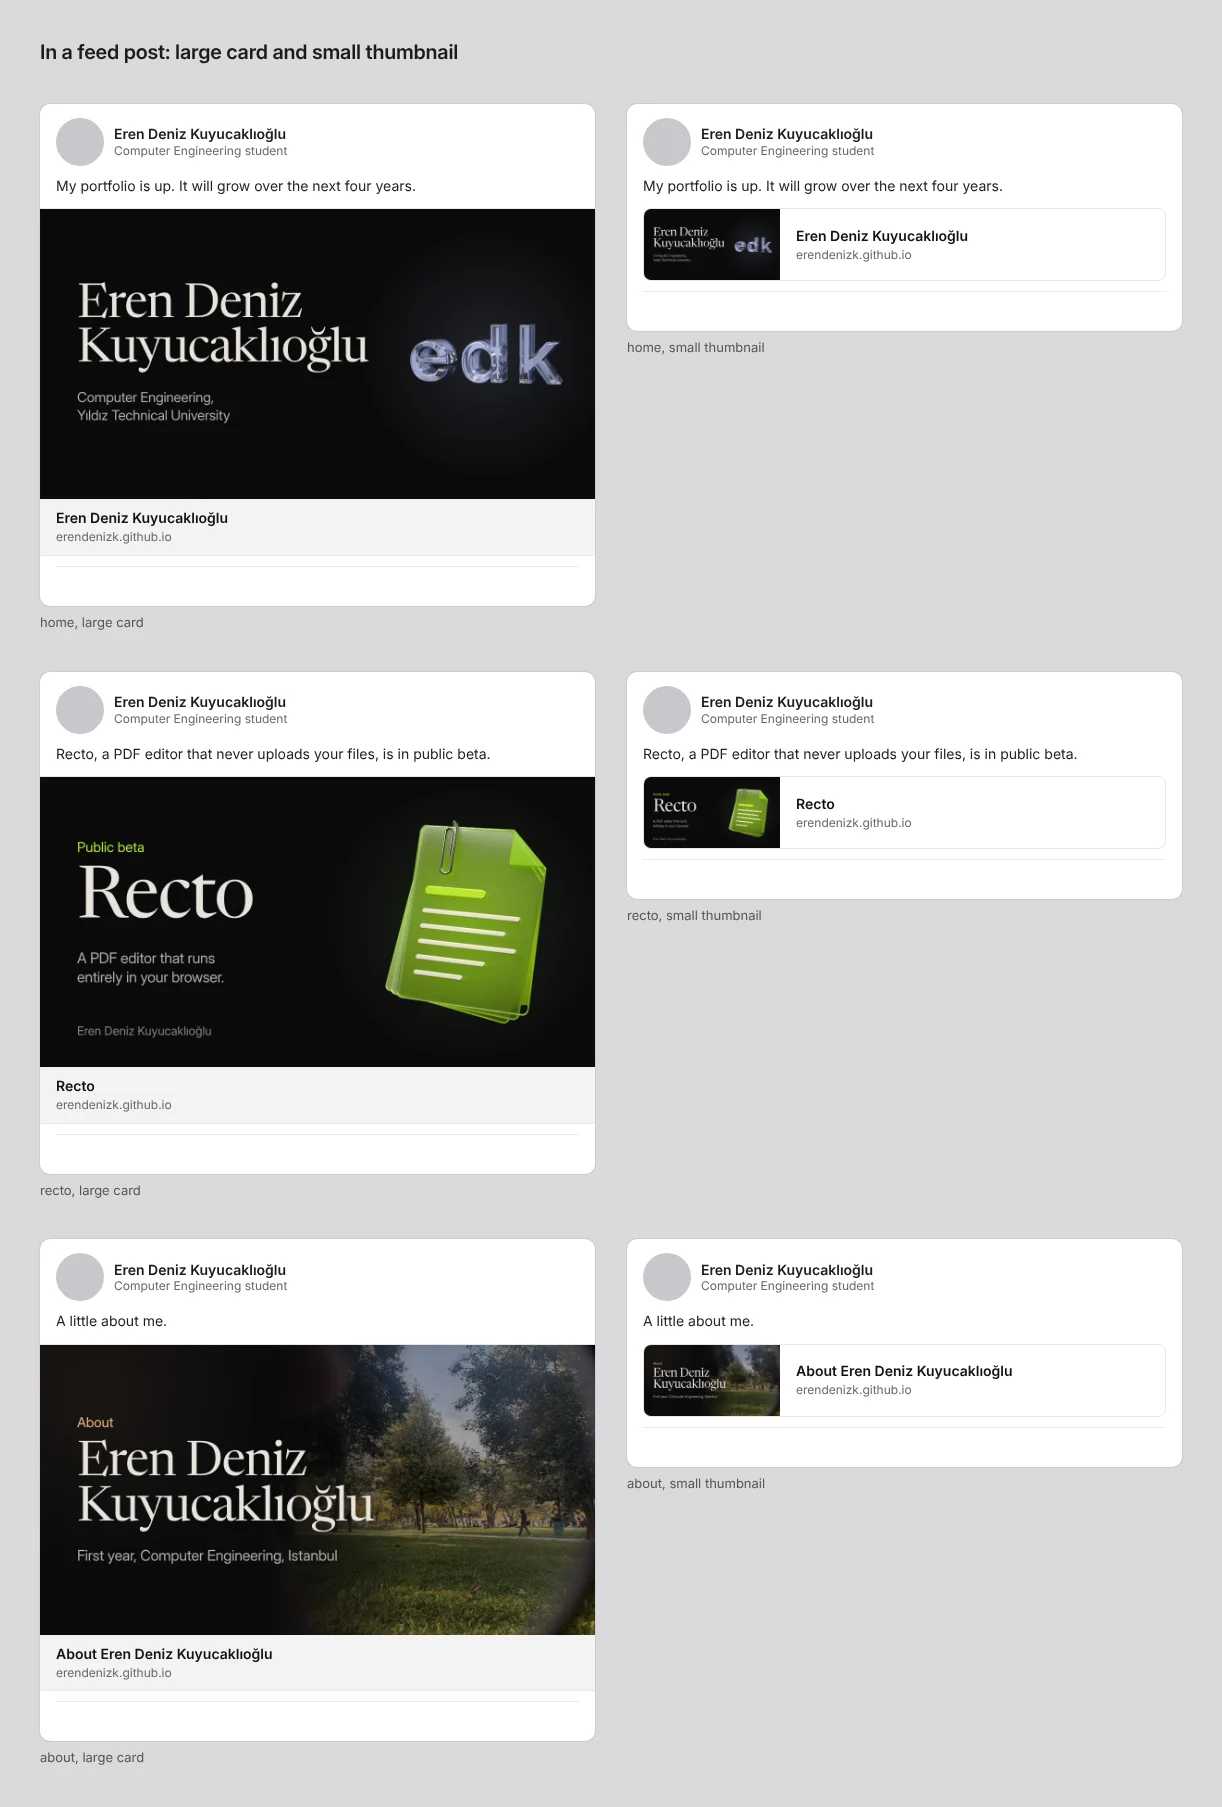
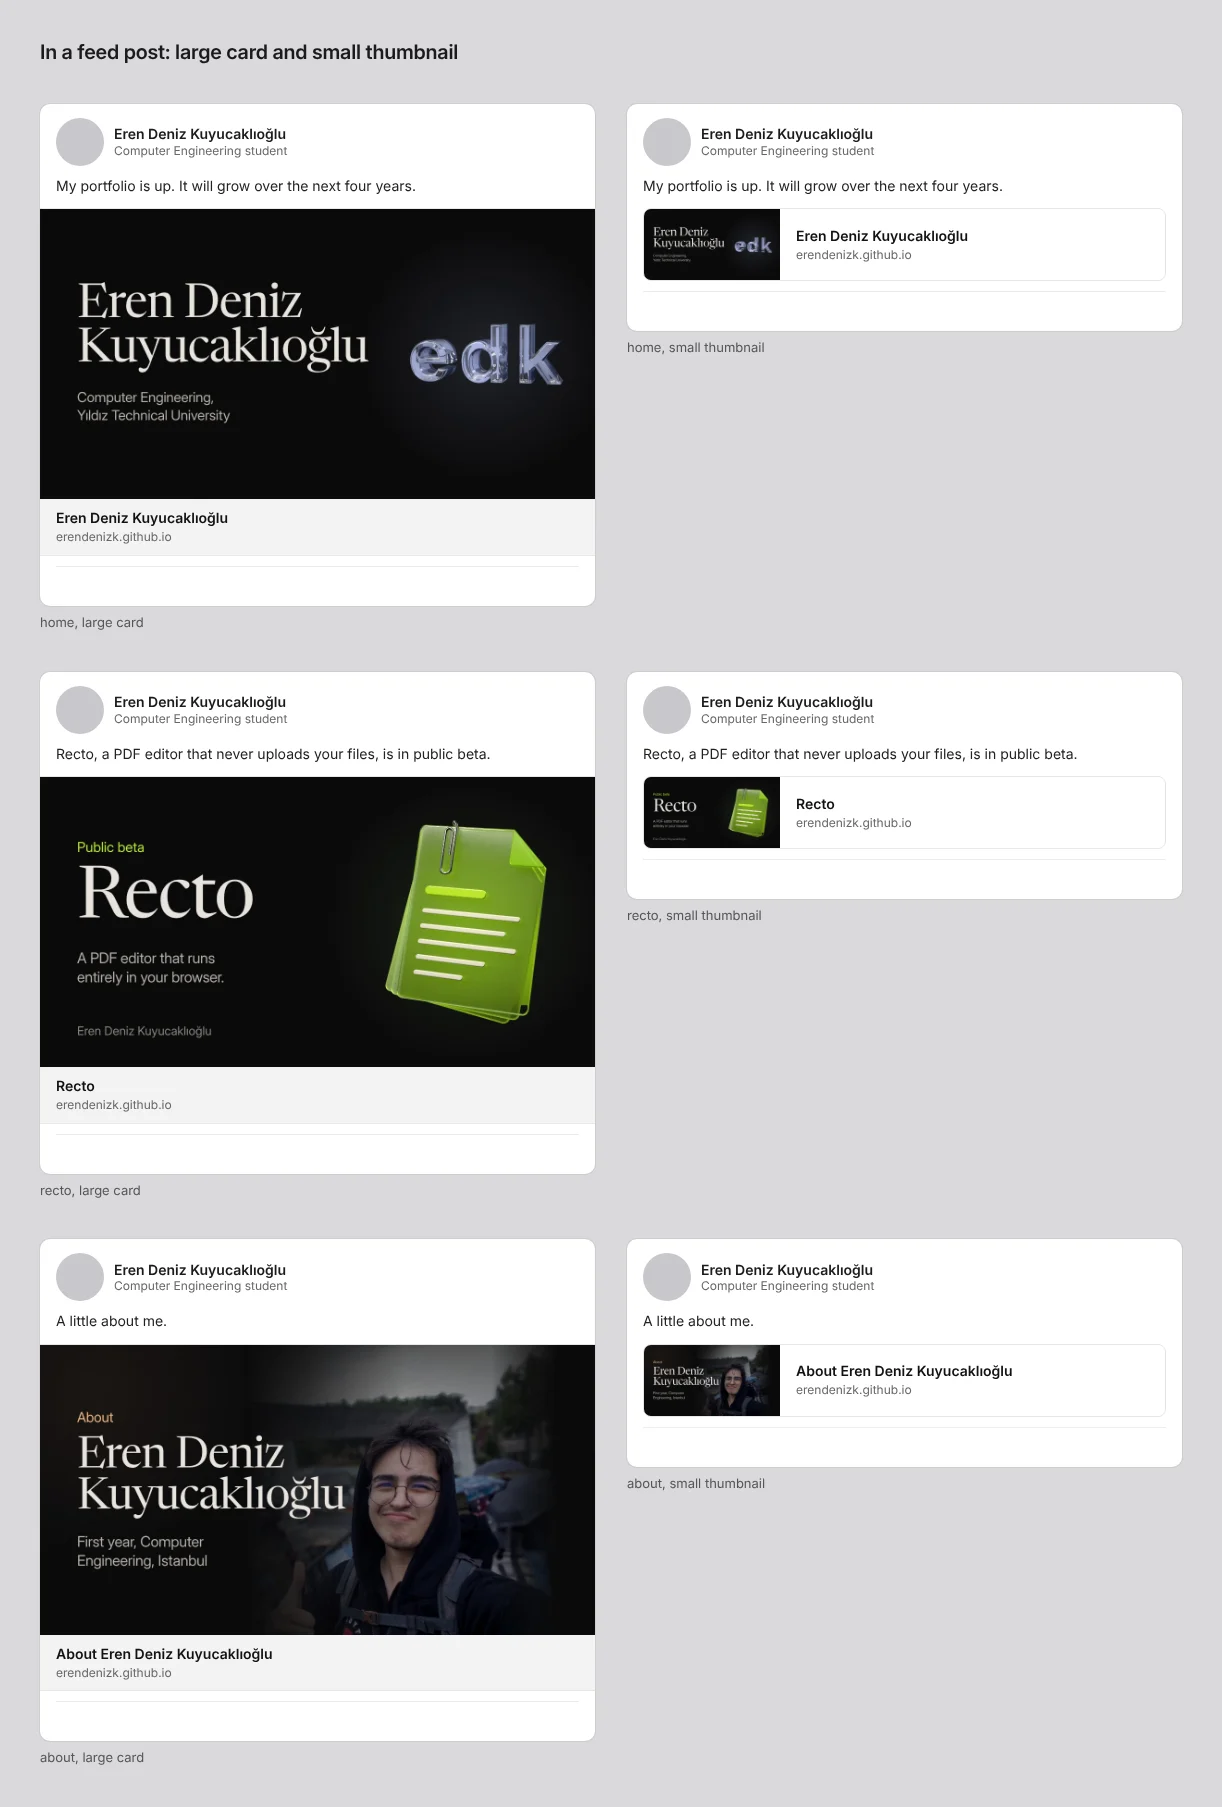
feat(og): show the gate selfie on the about card and record the owner's preview choices
Claude-Session: https://claude.ai/code/session_011RQ7MGV89kMFSBGr4ofiNW

Changed region(s): [[0.0622, 0.7438, 0.4975, 0.9297], [0.5286, 0.7438, 0.653, 0.8058]]

diff --git a/tools/og/card.html b/tools/og/card.html
@@ -37,12 +37,14 @@
   .obj { position: absolute; z-index: 1; }
   .obj.plus-lighter { mix-blend-mode: plus-lighter; }
 
-  /* About: the courtyard, graded into the ground. */
+  /* About: the photo, graded into the ground. */
   .photo { position: absolute; top: 0; right: 0; height: 630px; z-index: 0; overflow: hidden; }
   .photo img { width: 100%; height: 100%; object-fit: cover; display: block;
     filter: brightness(0.62) saturate(0.82) contrast(1.04) sepia(0.06); }
   .photo::after { content: ""; position: absolute; inset: 0;
     background:
+      var(--fade-r, linear-gradient(transparent, transparent)),
+      linear-gradient(180deg, color-mix(in srgb, var(--ground) 55%, transparent) 0%, transparent 34%),
       linear-gradient(90deg, var(--ground) 0%, color-mix(in srgb, var(--ground) 72%, transparent) 18%, transparent 46%),
       radial-gradient(120% 90% at 70% 50%, transparent 55%, color-mix(in srgb, var(--ground) 80%, transparent) 100%); }
   .about-glow { position: absolute; width: 760px; height: 760px; left: -260px; top: -280px; border-radius: 50%; z-index: 0;
@@ -186,20 +188,38 @@ const layouts = {
     await placeObject(card, root + c.object, c.blend, { cx: 960, cy: 315, w: 340, h: 440 });
   },
 
+  // About: a photo on the right, graded into the ground. With `photoFit` the photo is placed
+  // by a focus point (fractions of the image) landing at a card position, at a given rendered
+  // height, so a face can be kept inside the centre square; without it, object-fit cover.
   async about(card, c, site, root) {
-    const ph = el('div', 'photo'); ph.style.width = '720px';
-    const img = el('img'); img.src = root + c.photo; img.style.objectPosition = '62% 58%';
+    const w = c.photoWidth || 720;
+    const ph = el('div', 'photo'); ph.style.width = w + 'px';
+    const img = el('img'); img.src = root + c.photo;
+    if (c.photoFilter) img.style.filter = c.photoFilter;
     ph.append(img);
     card.append(el('div', 'about-glow'), ph);
     await img.decode();
+    if (c.photoFit) {
+      const { focus: [fx, fy], at: [ax, ay], height: h } = c.photoFit;
+      const iw = h * img.naturalWidth / img.naturalHeight, left0 = 1200 - w;
+      // The left edge always reaches under the text fade; if the right edge falls short of the
+      // card, it fades into the ground instead of being stretched to cover.
+      const left = Math.min(0, ax - left0 - fx * iw);
+      const top = Math.min(0, Math.max(630 - h, ay - fy * h));
+      Object.assign(img.style, { position: 'absolute', width: iw + 'px', height: h + 'px', left: left + 'px', top: top + 'px', objectFit: 'fill' });
+      const gap = w - (left + iw);
+      if (gap > 0) ph.style.setProperty('--fade-r', `linear-gradient(270deg, var(--ground) ${gap}px, transparent ${gap + 140}px)`);
+    } else img.style.objectPosition = c.photoPosition || '62% 58%';
     const t = el('div', 'text');
     const meta = el('p', 'meta'); meta.append(el('span', 'acc', c.kicker));
     const name = el('h1', 'display');
     c.name.forEach((part, i) => { if (i) name.append(el('br')); name.append(part); });
     name.style.fontSize = '104px'; name.style.marginTop = '22px';
-    const line = el('p', 'line', c.line); line.style.marginTop = '30px'; line.style.maxWidth = '640px';
+    const tw = c.textWidth || 640;
+    const line = el('p', 'line', c.line); line.style.marginTop = '30px'; line.style.maxWidth = tw + 'px';
     t.append(meta, name, line);
     card.append(t);
+    fit(name, tw, 104, 84);
   },
 };
 

diff --git a/tools/og/README.md b/tools/og/README.md
@@ -63,11 +63,25 @@ skipped by `sheet.mjs` unless `--variants` is passed.
   size whatever its framing. Ground-subtracted posters are drawn with `plus-lighter` over
   `#0a0a0b`, exactly as the site composites them; the light around the object is a CSS radial in
   the project's accent at 13 %/5 %, as on the site.
-- The courtyard is graded in CSS (brightness 0.62, saturation 0.82, slight warm) and faded into
-  the ground to the left; the lens rim stays as the frame.
+- The About photo is graded in CSS (default brightness 0.62, saturation 0.82, slight warm;
+  `photoFilter` overrides it) and faded into the ground to the left and top, and to the right
+  where it does not reach the edge. `photoFit` places it by a focus point instead of
+  object-fit: `{ focus: [x, y] as fractions of the image, at: [x, y] in card px, height }`;
+  `photoWidth` sets the panel and `textWidth` the column the name is fitted to.
 - A fixed-seed grain at 5 % overlay dithers the dark gradients so JPEG and WebP do not band.
 - The mark is set in type: Newsreader "edk" (or "e"), heavier and looser at 48 px and below,
   ink box centred and nudged 2 % down so the x-height reads as centred.
+
+## Owner's choices (October 2026)
+
+- Home card: the split layout (`home`: name left, object right). `home-centered` stays only as a
+  variant for comparison.
+- Favicon: "e" at 16 and 32 px, "edk" from 48 px up.
+- Icon colour: warm off-white mark on black.
+- About card: the gate selfie (`content/photos/eren-ytu-gate.jpg`) on the right, graded into
+  `#0a0a0b`, with the face kept inside the centre 630 × 630 square so square crops still show
+  it; the name in Newsreader, a small "About" label and the line as before. It replaced the
+  courtyard photo so the preview carries a face.
 
 ## Known gaps
 
